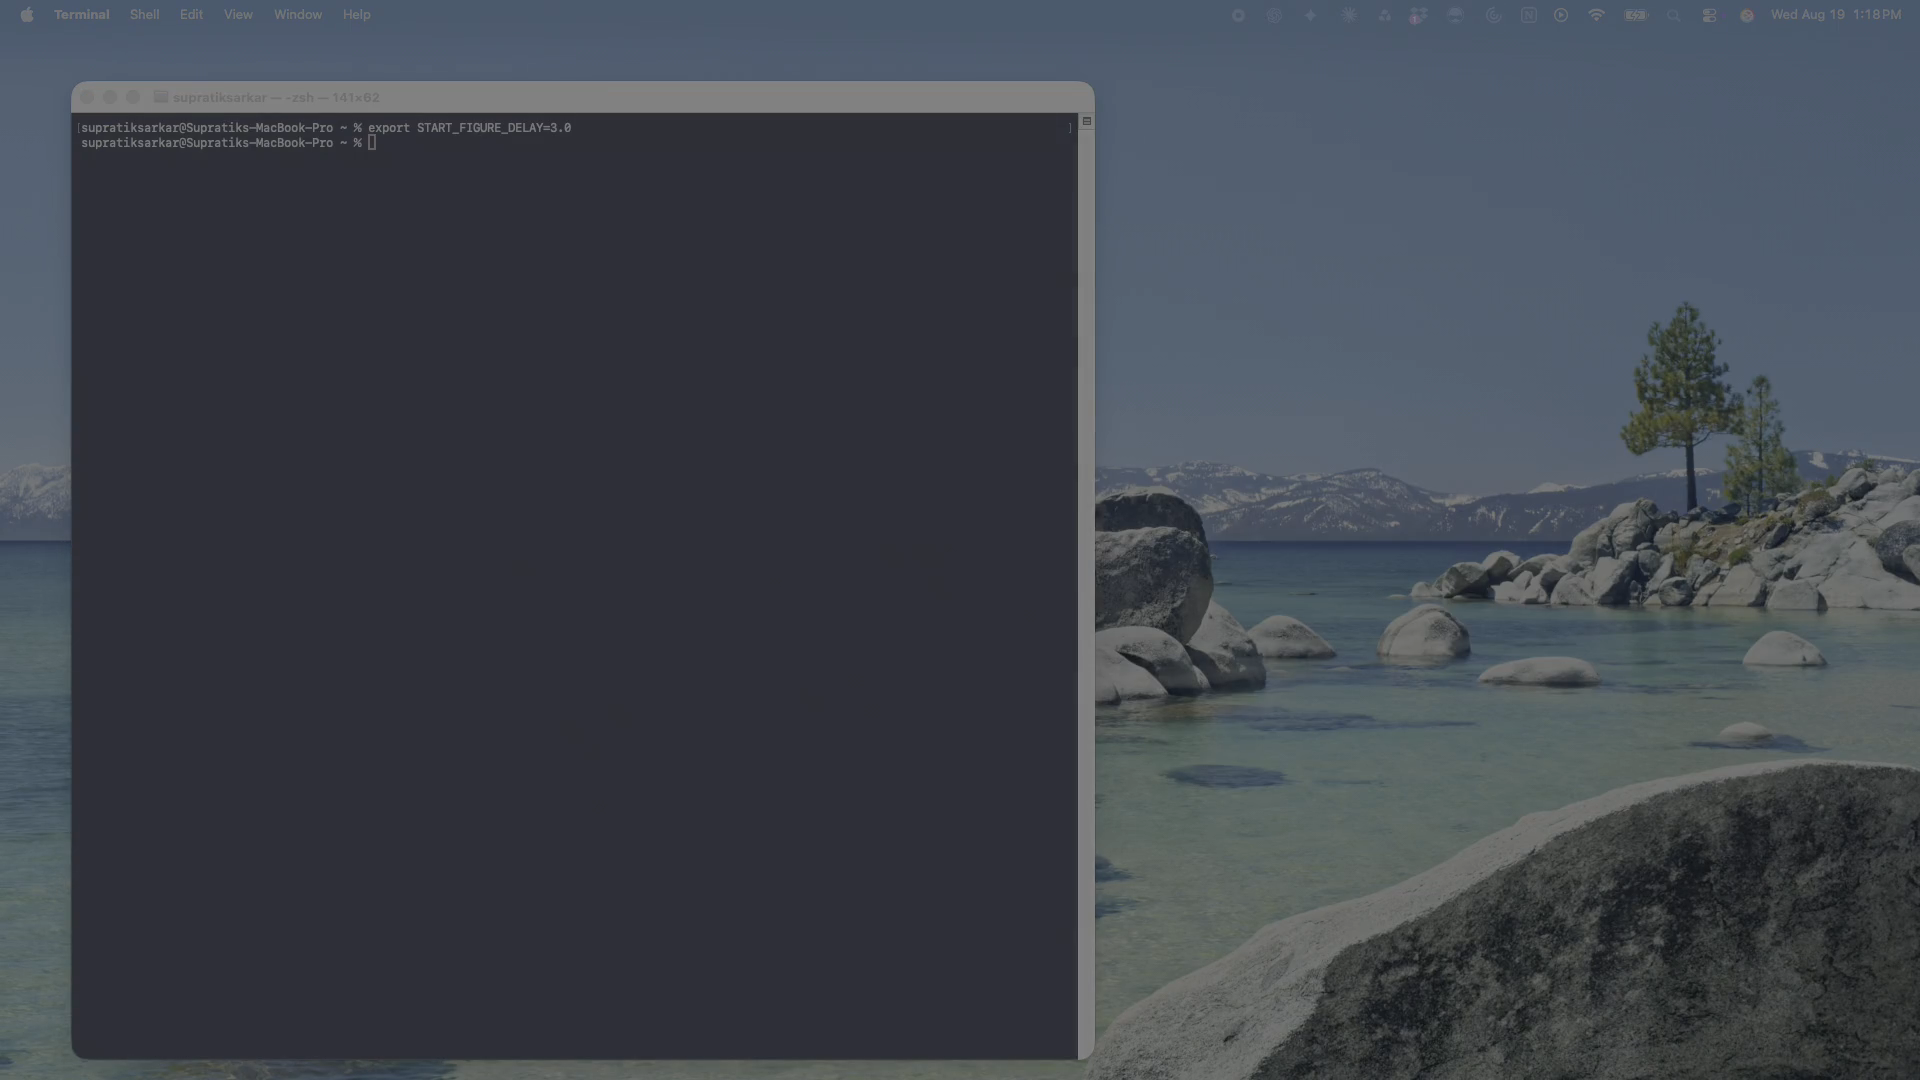
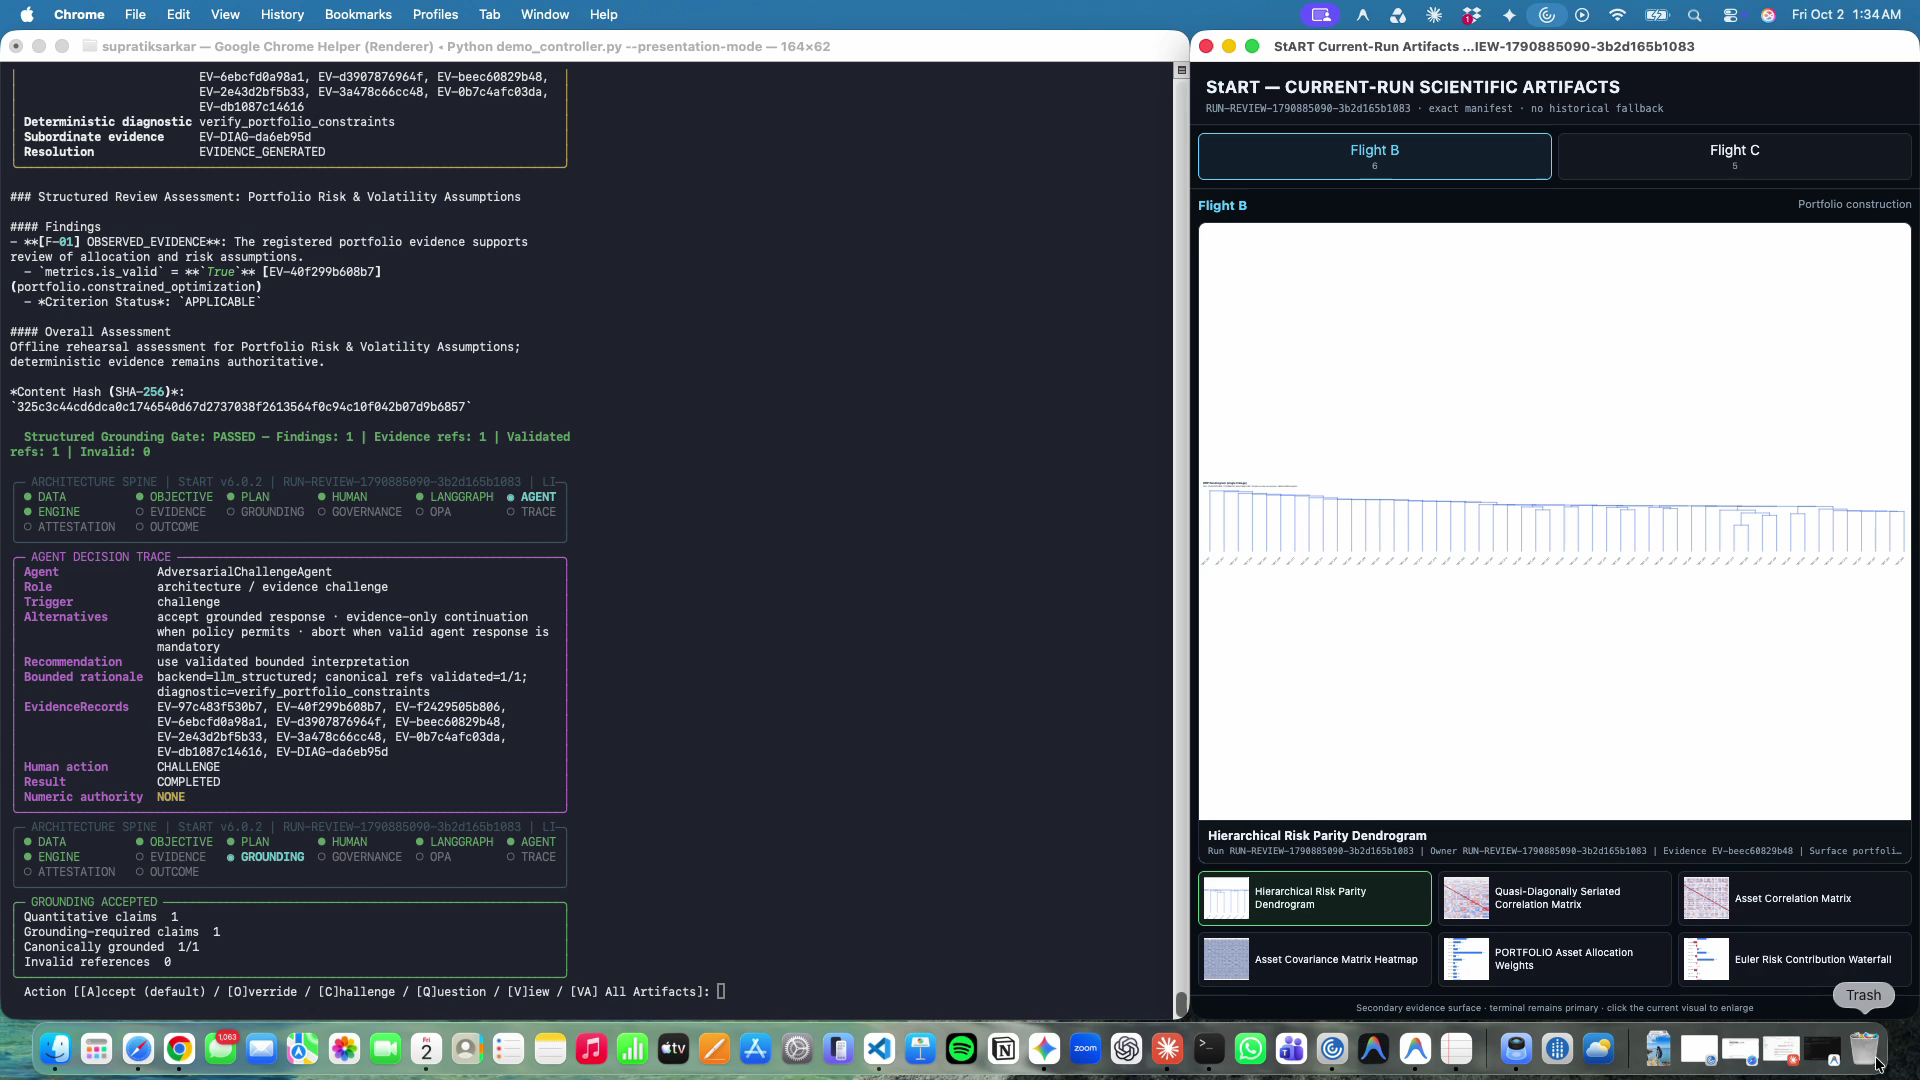
docs: finalize StART v6.0.2 README and demo

diff --git a/README.md b/README.md
@@ -4,44 +4,57 @@
 
 [![Release](https://img.shields.io/badge/release-v6.0.2-blue?style=flat)](https://github.com/supratik-sarkar/StART/releases/tag/v6.0.2)
 [![License](https://img.shields.io/badge/license-Apache--2.0-green?style=flat)](LICENSE)
-[![Python](https://img.shields.io/badge/python-3.12+-blue?style=flat)](pyproject.toml)
 [![CI](https://img.shields.io/github/actions/workflow/status/supratik-sarkar/StART/core-ci.yml?branch=main&label=CI&style=flat)](https://github.com/supratik-sarkar/StART/actions/workflows/core-ci.yml)
-[![Frontend](https://img.shields.io/badge/frontend-React_18_%7C_TypeScript-61dafb?style=flat&logo=react&logoColor=black)](webapp/)
-[![Architecture](https://img.shields.io/badge/architecture-evidence--native-purple?style=flat)](#architectural-invariant--orchestration)
 [![Governance](https://img.shields.io/badge/governance-OPA-blueviolet?style=flat&logo=open-policy-agent&logoColor=white)](src/start/certification/policies.py)
 [![Observability](https://img.shields.io/badge/observability-OpenTelemetry-orange?style=flat&logo=opentelemetry&logoColor=white)](src/start/telemetry/engineering_trace.py)
 [![X](https://img.shields.io/badge/X-%40SupratikSarkar__-000000?style=flat&logo=x&logoColor=white)](https://x.com/SupratikSarkar_)
 
-**LangGraph orchestrates. Agents reason. Deterministic engines calculate. EvidenceRecords prove. OPA governs. OpenTelemetry observes.**
+**LangGraph orchestrates. Agents reason. Deterministic engines calculate. EvidenceRecords prove. OPA governs. OpenTelemetry observes. Attestation seals the outcome.**
 
 ---
 
-## Demonstration
+## Demo
 
-[![StART Terminal & Artifact Board Demonstration](docs/media/start-demo-poster.png)](#demonstration)
+[![StART Terminal & Artifact Board Demonstration](docs/media/start-demo-poster.png)](https://github.com/supratik-sarkar/StART/releases/download/v6.0.2/StART_v6.0.2_Zero_Cost_Demo_Master.mp4)
 
-*Interactive dual-pane demonstration featuring live terminal observability, real-time deterministic calculations, and dynamic artifact board.*
+*Interactive dual-pane demonstration: live terminal execution (~62%) alongside dynamic artifact board (~38%) across temporal deep learning, portfolio risk, and deterministic control plane.*
 
-[Explore the Web Workbench →](#web-workbench)
+[Watch the full demonstration (MP4) →](https://github.com/supratik-sarkar/StART/releases/download/v6.0.2/StART_v6.0.2_Zero_Cost_Demo_Master.mp4)
+
+### Web Workbench
+
+**[Open the StART Web Workbench →](https://start-mrt-gateway.sapman.workers.dev)**  
+*Public demo · Rate limits may apply*
 
 ---
 
-StART is an evidence-native development and review workbench in which agents contribute reasoning while deterministic engines retain quantitative authority. Evidence, human challenge, grounding, governance, policy, and attestation remain inspectable throughout the run.
+## Why StART?
+
+**StART is an evidence-native development and review workbench in which agents contribute reasoning while deterministic engines retain quantitative authority. Evidence, human challenge, grounding, governance, policy, and attestation remain inspectable throughout the run.**
 
 ---
 
 ## Generalized Review Workflow
 
 ```mermaid
-flowchart LR
-    In["INPUT"] --> Obj["OBJECTIVE"]
-    Obj --> Plan["CAPABILITY PLAN"]
-    Plan --> Dec["AGENT / HUMAN DECISION"]
-    Dec --> Exec["DETERMINISTIC EXECUTION"]
-    Exec --> Ev["EVIDENCERECORD"]
-    Ev --> Ground["GROUNDING"]
-    Ground --> Gov["GOVERNANCE / POLICY"]
-    Gov --> Out["OUTCOME / ATTESTATION"]
+flowchart TD
+    subgraph Row1 ["Formulation & Planning"]
+        direction LR
+        In["INPUT"] --> Obj["PROBLEM / OBJECTIVE CONTRACT"]
+        Obj --> Plan["ALTERNATIVES / CAPABILITY PLAN"]
+    end
+    subgraph Row2 ["Reasoning Trace & Execution"]
+        direction LR
+        Trace["HUMAN / AGENT DECISION TRACE"] --> Exec["DETERMINISTIC EXECUTION"]
+        Exec --> Ev["EVIDENCE"]
+    end
+    subgraph Row3 ["Verification & Governance"]
+        direction LR
+        Ground["GROUNDING"] --> Gov["GOVERNANCE / POLICY"]
+        Gov --> Out["OUTCOME / ATTESTATION"]
+    end
+    Plan --> Trace
+    Ev --> Ground
 ```
 
 ---
@@ -71,23 +84,32 @@ flowchart TD
     Gov -.-> Observability
 ```
 
+### Invariants & Semantic Distinctions
+
+- **Agents reason, deterministic engines calculate**: Language models are structurally barred from generating numbers or claiming mathematical authority.
+- **EvidenceRecords prove**: Every diagnostic metric, table, and figure is sealed into an immutable `EvidenceRecord` containing SHA-256 fingerprints, execution node lineage, and verification criteria.
+- **Grounding != Governance**: Grounding verifies whether claims match recorded evidence metrics; governance tracks institutional disposition (`ACCEPT`, `ACCEPT_WITH_CONDITIONS`, `CHALLENGED_PENDING_REVIEW`).
+- **Governance != OPA Policy**: Governance represents human/committee adjudication; OPA evaluates deterministic fail-closed machine rules (`ALLOW` / `DENY`). A policy `ALLOW` is never conflated with model approval.
+- **Execution != Validation**: Executing a workflow calculation is distinct from evaluating whether results pass model validation and risk thresholds.
+- **RECORDED != PASS**: An evidence record being captured and recorded does not imply its assertions have passed.
+- **Policy ALLOW != Model Approval**: OPA allowing the execution pipeline does not constitute validation sign-off.
+
 ---
 
 ## Key Product Capabilities
 
 * **Numerical Authority & Zero Hallucination**: Deterministic calculation engines establish quantitative truth. Language models are structurally barred from generating numbers or claiming mathematical authority.
 * **Cryptographic EvidenceRecords**: Every diagnostic metric, table, and figure is sealed into an immutable `EvidenceRecord` containing SHA-256 fingerprints, execution node lineage, and verification criteria.
-* **Separation of Grounding, Governance, and Policy**:
-  - **Grounding** verifies whether natural language claims match recorded evidence metrics.
-  - **Governance** tracks institutional dispositions (`ACCEPT`, `ACCEPT_WITH_CONDITIONS`, `CHALLENGED_PENDING_REVIEW`).
-  - **OPA Policy** evaluates fail-closed machine rules (`ALLOW` / `DENY`). A policy `ALLOW` is never conflated with model approval.
+* **Separation of Grounding, Governance, and Policy**: Independent layers prevent circular reasoning between model commentary, institutional disposition, and machine-enforced policy rules.
 * **Human Challenge & Lineage**: Reviewers can challenge findings and record structured decisions. Challenges append immutable decision receipts, update governance state, and branch into traceable child reviews without mutating historical runs.
 * **Cryptographic Attestation**: The append-only evidence ledger resolves to a Merkle tree root hash signed upon run finalization, guaranteeing end-to-end auditability.
 * **Multi-Domain Scientific Coverage**:
   - **Predictive ML**: Data integrity, feature drift (PSI), ROC/AUC discrimination, Brier score calibration, and perturbation robustness.
-  - **Deep Learning**: Temporal sequence classification, architecture diagnostics, training dynamics, and temporal input-gradient saliency.
-  - **Quantitative Finance**: Traded risk, portfolio construction (HRP, MVO), covariance matrix conditioning, VaR exception backtesting (Kupiec, Christoffersen), and reverse stress testing.
+  - **Deep Learning**: Temporal sequence classification `(800, 24, 3)`, architecture diagnostics, training dynamics, and temporal input-gradient saliency.
+  - **Quantitative Finance**: Traded risk, portfolio construction (HRP dendrogram, MVO), covariance matrix conditioning, VaR exception backtesting (`Loss = -Return`, VaR as positive loss, Kupiec POF, Christoffersen independence), and reverse stress testing.
   - **Recommender Systems**: Ranking evaluation (NDCG@K), interaction sparsity, and coverage metrics.
+
+![StART Capability & Governance Architecture](docs/media/start_capability_system.svg)
 
 ---
 
@@ -116,7 +138,7 @@ start --help
 start review --help
 ```
 
-> **Note**: v6.0.2 is installed from source. Package-registry distribution is intentionally deferred. Release verification was performed with Python 3.12.13 on macOS and Linux (Ubuntu 22.04 / 24.04).
+> **Note**: Requires Python `>=3.12` (tested with Python 3.12.13 on macOS and Linux Ubuntu 22.04 / 24.04). Package-registry distribution is intentionally deferred.
 
 ### 2. Deterministic CLI Reviews
 
@@ -133,9 +155,9 @@ start doctor
 
 ---
 
-## Web Workbench
+## Local Web Workbench
 
-StART includes a local browser-based engineering workbench (`webapp/`) with an offline demonstration twin requiring zero hosted model calls.
+StART includes a local browser-based engineering workbench (`webapp/`) with an offline demonstration twin requiring zero hosted model calls:
 
 ```bash
 cd webapp
@@ -193,6 +215,8 @@ Part of the Engineering & Systems Portfolio by [Supratik Sarkar](https://github.
 - [multimodal-context-systems](https://github.com/supratik-sarkar/multimodal-context-systems) — Long-context retrieval, multimodal embeddings, and grounding engines.
 - [applied-ml-systems](https://github.com/supratik-sarkar/applied-ml-systems) — Production ML pipelines, monitoring, and robust predictive modeling.
 - **StART** (Current) — Evidence-native model development and institutional review workbench.
+
+Connect on X: [@SupratikSarkar_](https://x.com/SupratikSarkar_)
 
 ---
 
